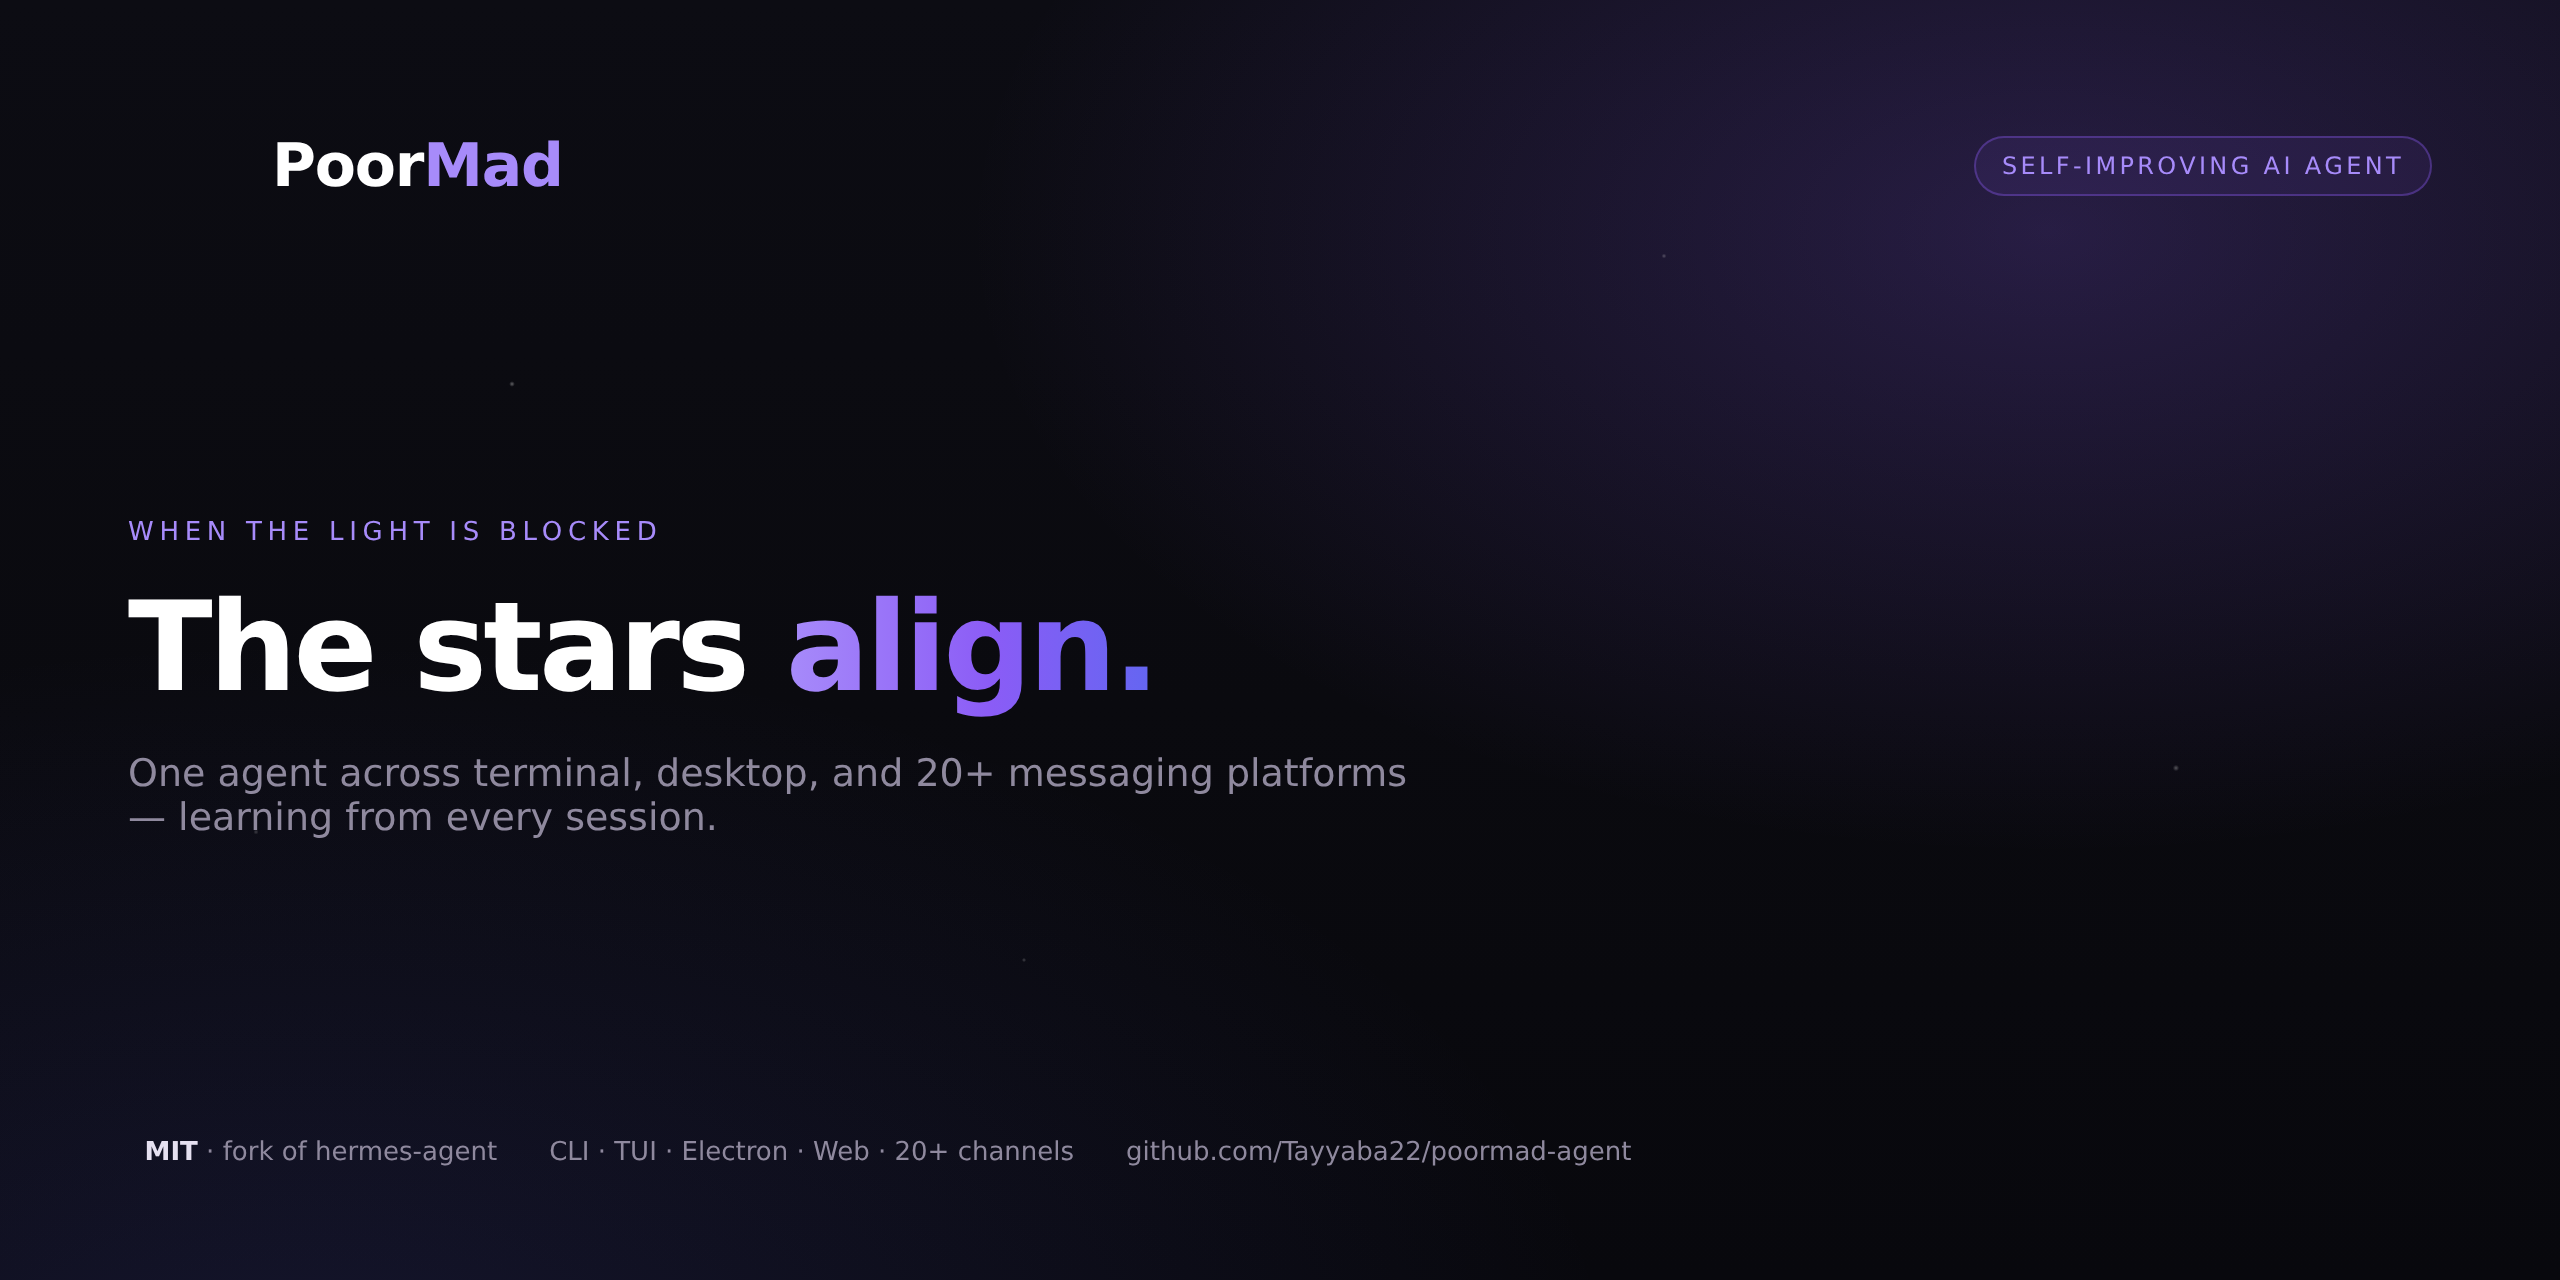
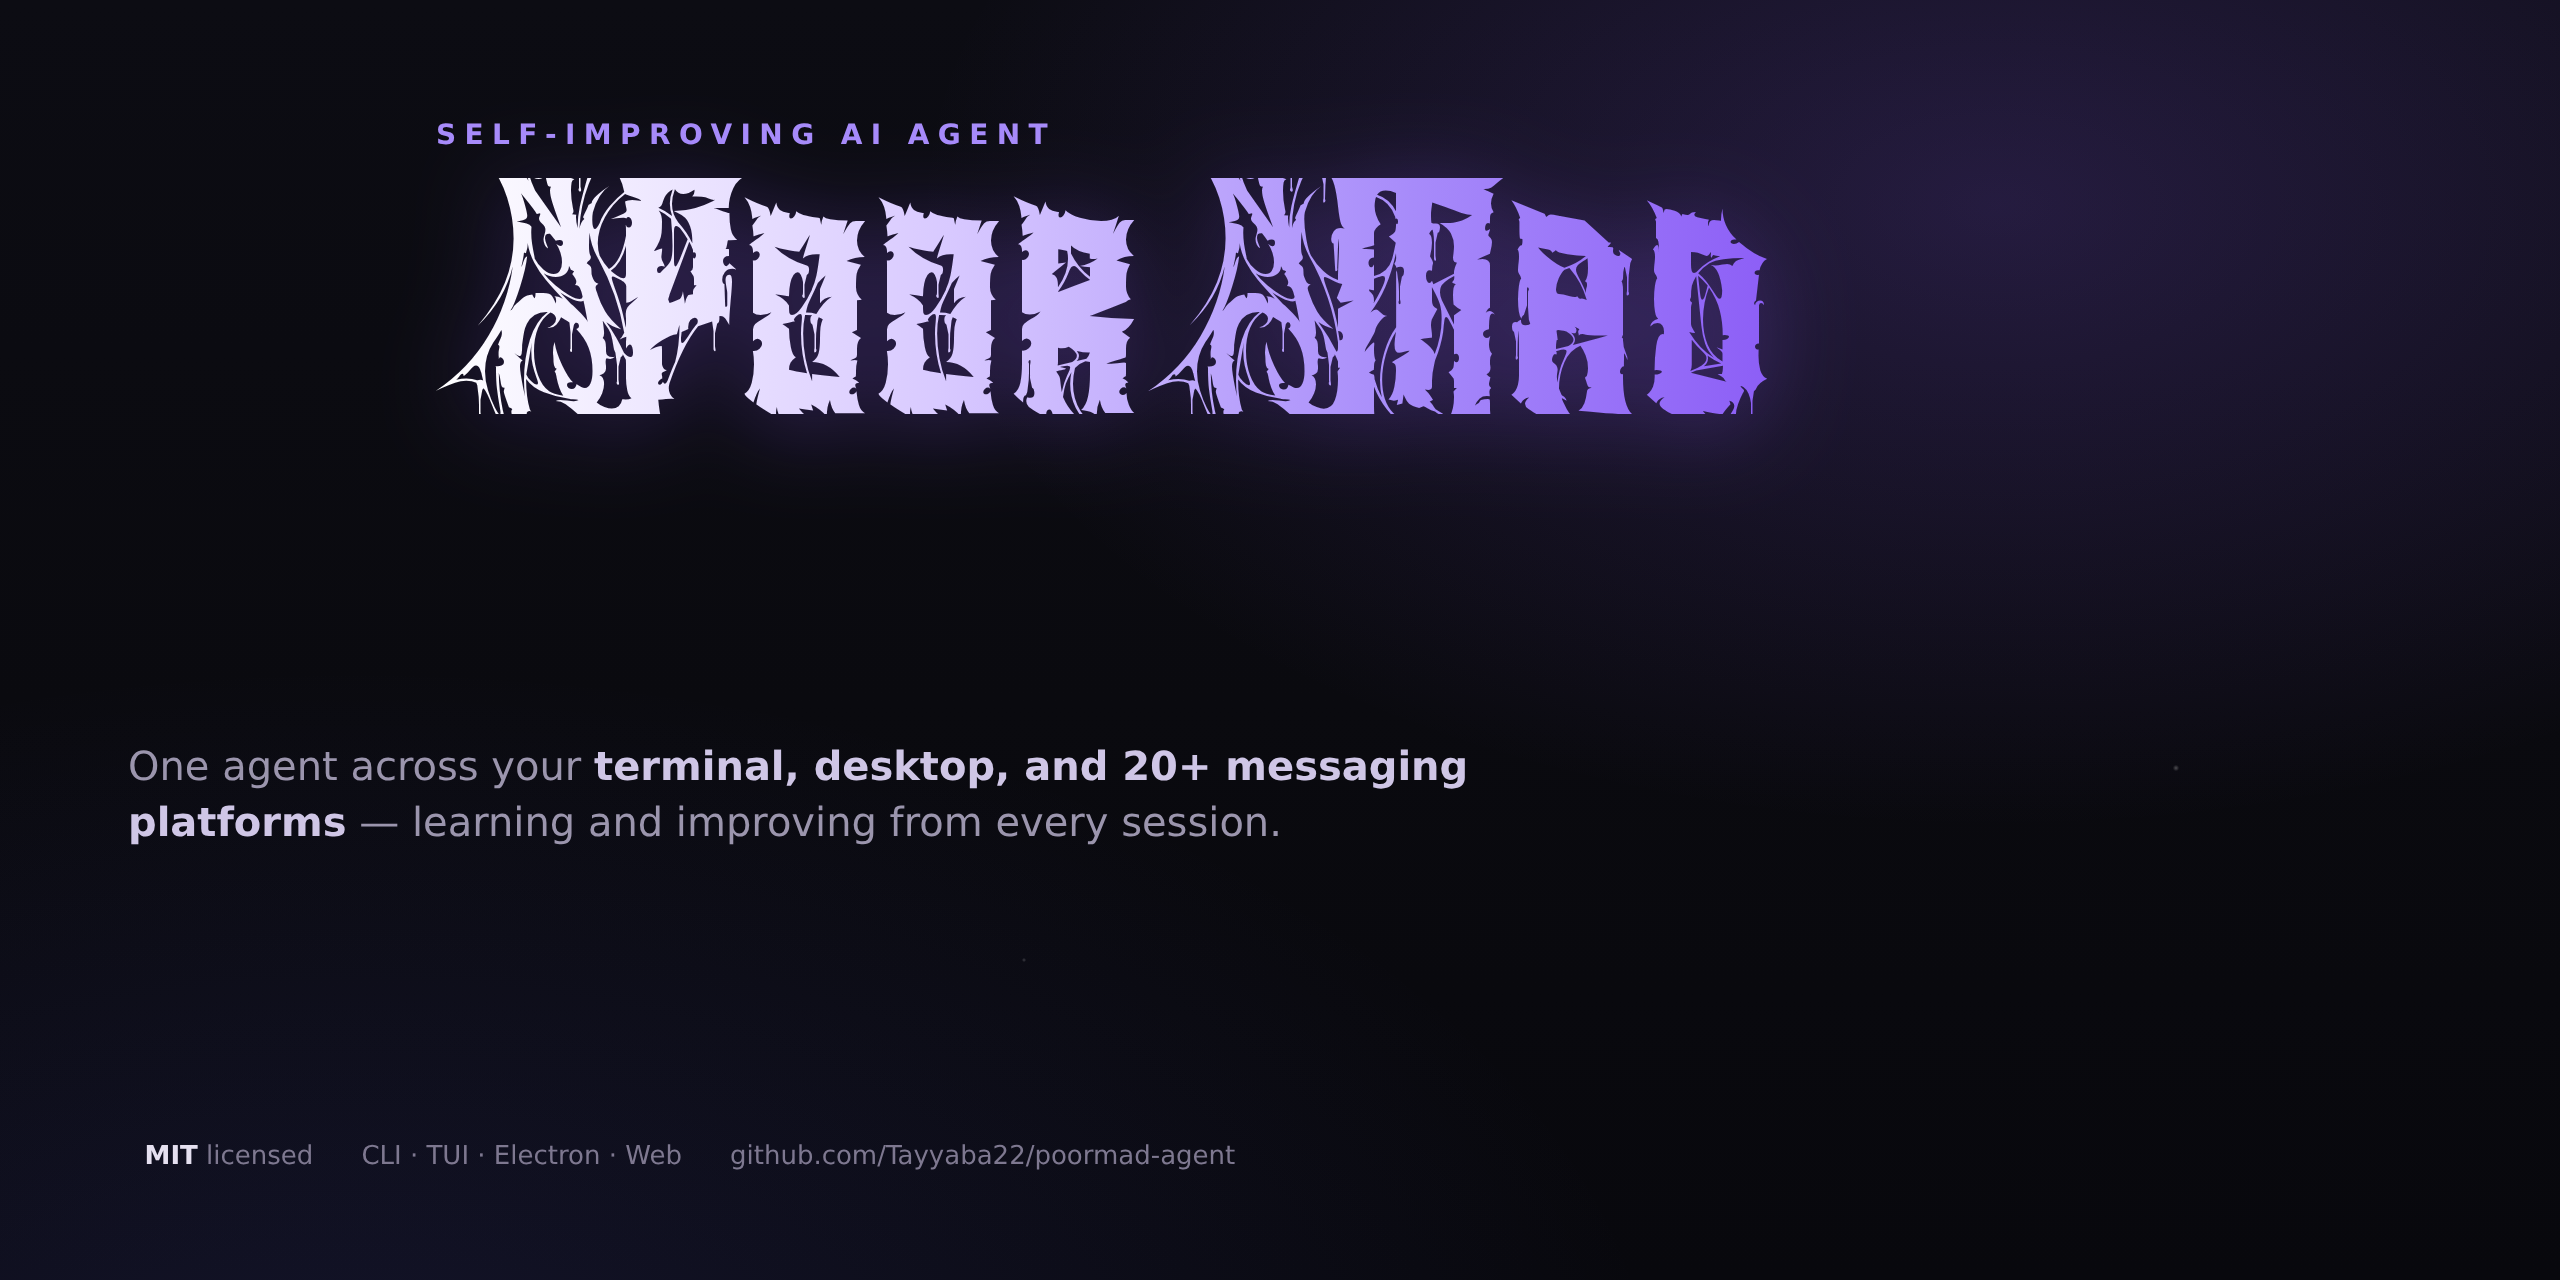
brand: Heavytal wordmark + Hermes-free About
- New HD banner (2560x1280) with a real Heavytal wordmark: violet-gradient
  'PoorMad' in the Heavytal typeface, vector crescent moon, clean tagline.
  Used as GitHub social preview (assets/banner.png) and bundled into the app
  (public/banner.png). Font verified loaded via document.fonts.check.
- About page: banner hero showcases the Heavytal wordmark; no 'Hermes' text.
- Removed all 'Hermes' mentions from brand-mark.tsx and presets.ts comments.

diff --git a/apps/desktop/src/themes/presets.ts b/apps/desktop/src/themes/presets.ts
@@ -848,9 +848,9 @@ export const slateTheme: DesktopTheme = {
 /**
  * MONO-HUE THEME FAMILY
  * Each theme is mono-hue: one dominant accent hue over a neutral surface
- * ladder (like Hermes). No second competing hue — the accent tints every
- * semantic token, neutrals carry the rest. Each ships its own matching
- * font (loaded via `typography.fontUrl`) and a unique app title.
+ * ladder. No second competing hue — the accent tints every semantic token,
+ * neutrals carry the rest. Each ships its own matching font (loaded via
+ * `typography.fontUrl`) and a unique app title.
  */
 
 /** J.A.R.V.I.S. — mono-hue cyan, arc-reactor calm. */
@@ -1185,7 +1185,7 @@ export const heroicTheme: DesktopTheme = {
  * PoorMad Dark — the canonical PoorMad desktop identity. Space-black surface
  * with a violet/lavender nebula accent and the pixel-moon brand. Hand-tuned
  * (not the naive CLI-skin auto-convert) so the GUI reads as a first-class
- * product, distinct from the upstream Hermes/nous GitHub-fork look.
+ * PoorMad product with its own distinct look.
  */
 export const poormadDarkTheme: DesktopTheme = {
   name: 'poormad-dark',

diff --git a/apps/desktop/src/components/brand-mark.tsx b/apps/desktop/src/components/brand-mark.tsx
@@ -2,9 +2,9 @@ import { cn } from '@/lib/utils'
 
 const assetPath = (path: string) => `${import.meta.env.BASE_URL}${path.replace(/^\/+/, '')}`
 
-// PoorMad brand mark: the pixel moon (🌑) — the project's identity, distinct
-// from the upstream Hermes "girl" mark. Rendered on a transparent tile so it
-// sits on any surface (space-black or light) without a foreign white box.
+// PoorMad brand mark: the pixel moon (🌑) — the project's own identity.
+// Rendered on a transparent tile so it sits on any surface (space-black or
+// light) without a foreign white box.
 export function BrandMark({ className, ...props }: React.ComponentProps<'span'>) {
   return (
     <span
